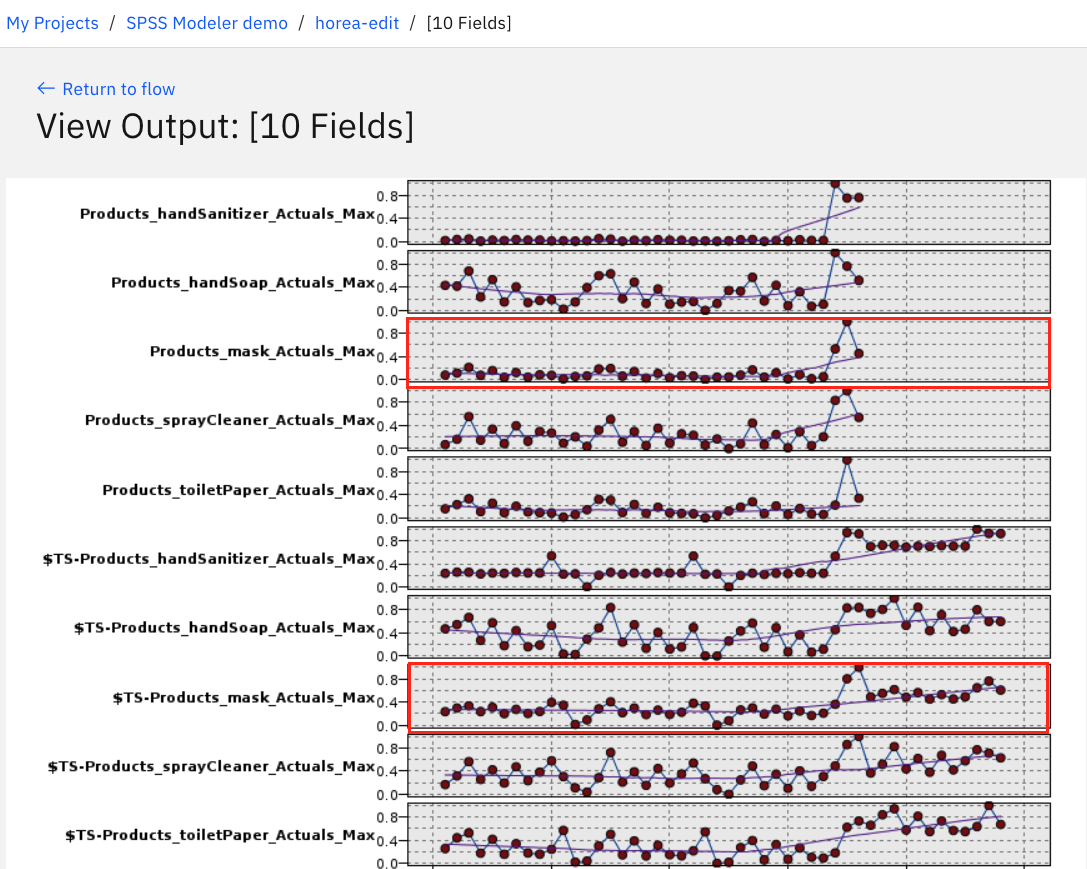
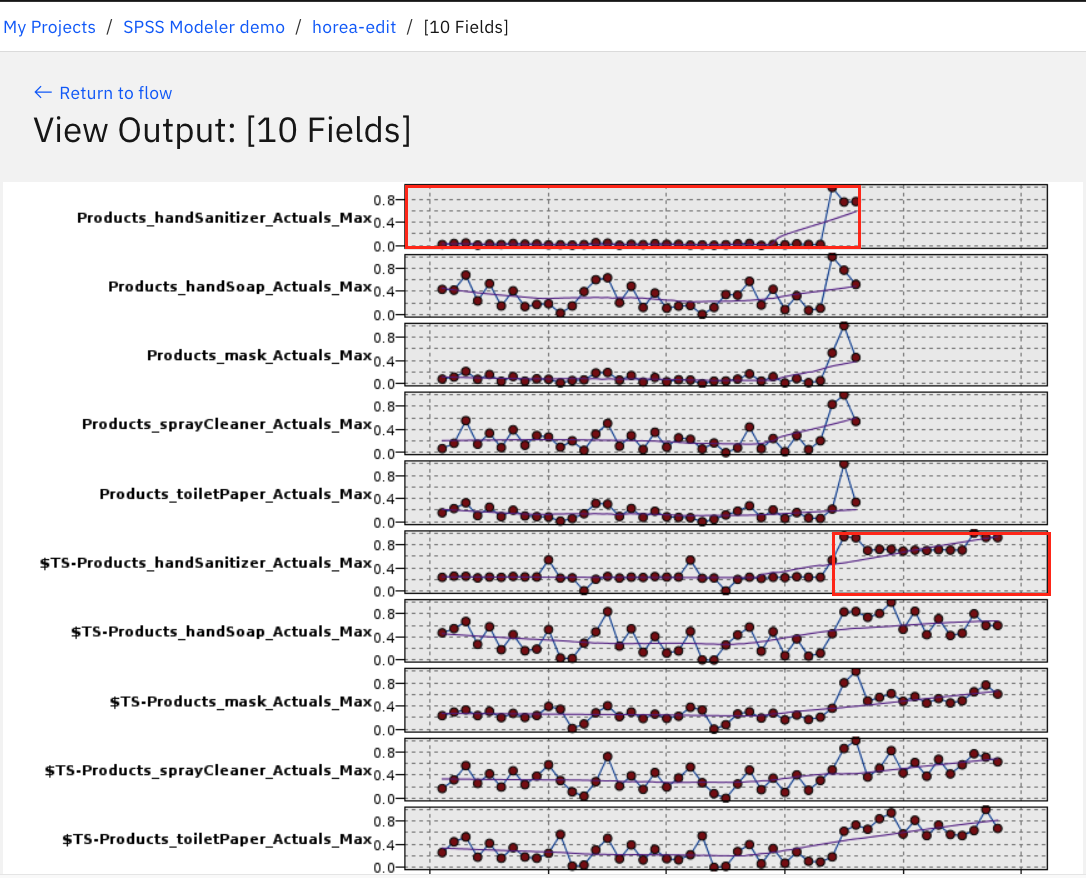
add step 7

Changed region(s): [[0.0, 0.1864, 1.0, 1.0], [0.0, 0.0, 0.4862, 0.0621], [0.0304, 0.0932, 0.395, 0.1864]]

diff --git a/tutorials/spss.md b/tutorials/spss.md
@@ -244,11 +244,23 @@ updated.
 ### 8. Evaluate the results 
 
 * Double-click on `Analysis of [29 fields]` in the Outputs tab.
-Here you can see an assessment of the mean error, 
+Here you can see an assessment of the mean error, maximum error
+and other values which compare the `$TS-Products_Actuals_Max` i.e. the maximum demand forecasted by the model for a particular product, versus `Products_Actuals_Max` which is the max which has 
+been recorded for the training period i.e. 2016-2018.
 
 ![addProj](../images/29fields.png)
 
 * Double-click on `Analysis of [10 fields]` in the Outputs tab.
+Here you will see a visual representation of a few of the 
+interesting products which have shown to have spiked in demand
+over the past three months of training data. In October, 
+November, and December of 2018, these five particular products,
+masks, hand sanitizer, and spray cleaner have all spiked in 
+demand, much higher than previously recorded, such that the 
+forecasted values for 2019, the year we are predicting, are all
+much higher due to these three months of training data. We can see this by the slope of the line increasing drastically in the 
+`$TS-Products_Actuals_Max` charts vs. the `Products_Actuals_Max`
+charts.
 
 ![addProj](../images/10fields.png)
 
